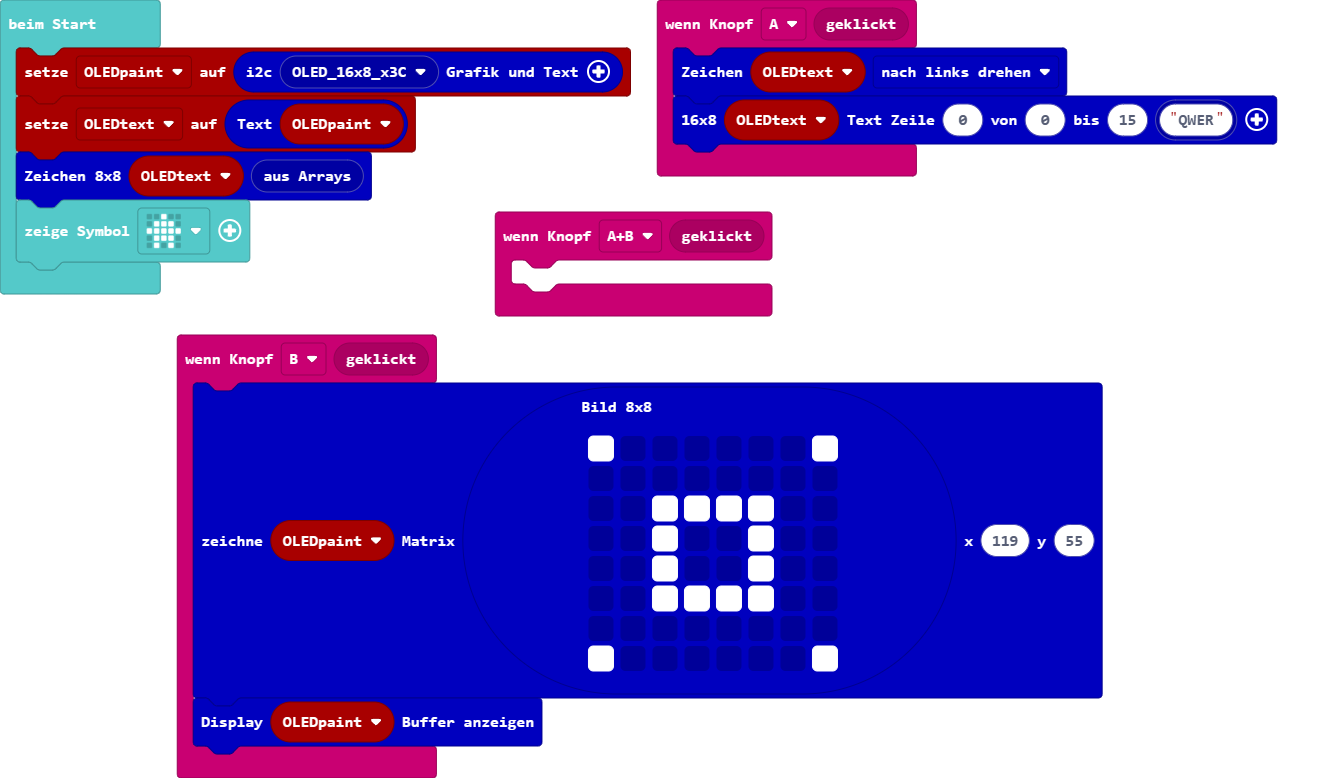
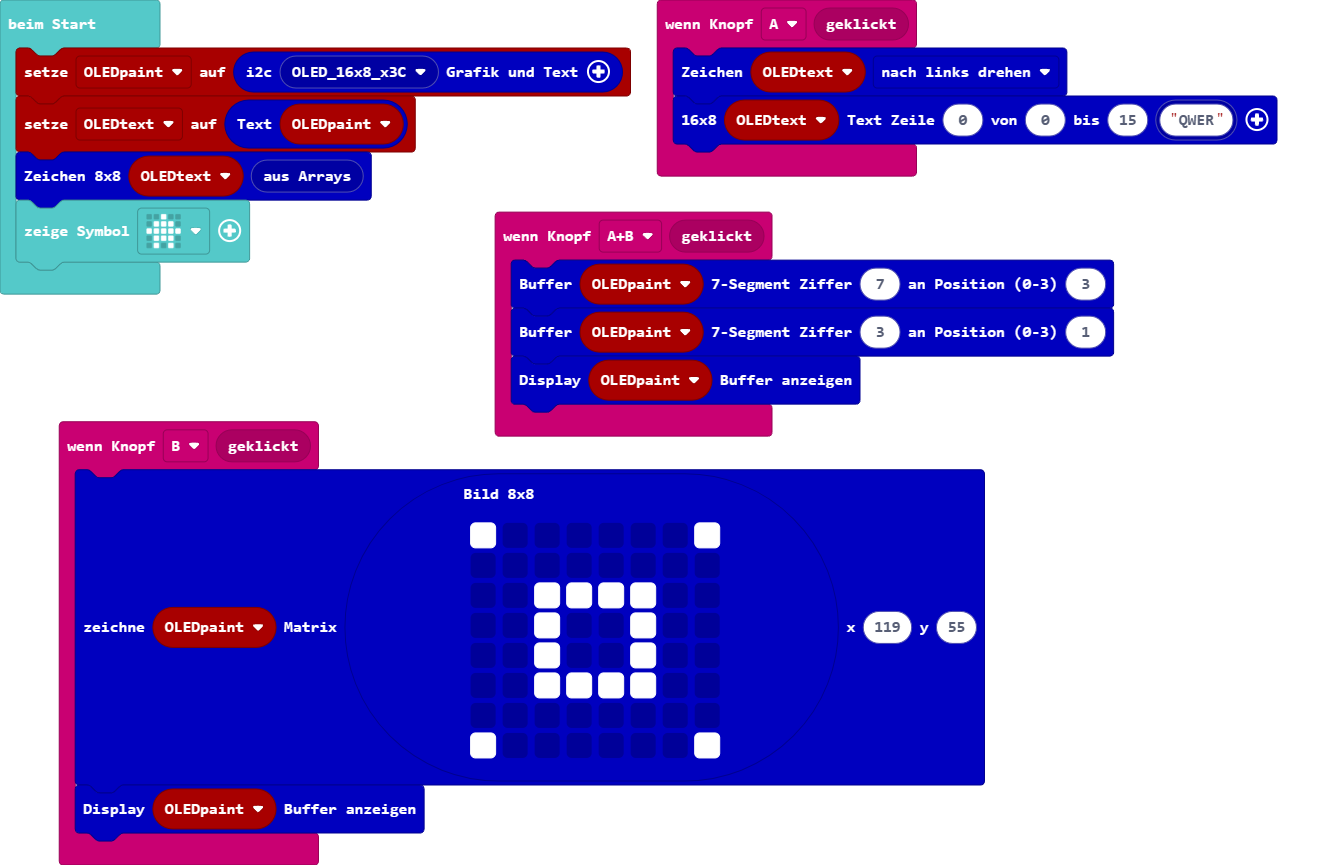
Aktualisiere main.blocks, main.ts, oledpaint.ts, oledfunctions.ts

diff --git a/oledpaint.ts b/oledpaint.ts
@@ -43,7 +43,7 @@ neu programmiert von Lutz Elßner im November 2023
         // ========== group="direkt auf Display zeichnen" subcategory=zeichnen
 
         //% group="direkt auf Display zeichnen" subcategory=zeichnen
-        //% block="Display %OLEDpaint löschen || von Zeile %vonZeile bis Zeile %bisZeile mit Bitmuster %charcode" weight=9
+        //% block="Display %OLEDpaint löschen || von Zeile %vonZeile bis Zeile %bisZeile mit Bitmuster 0↓255 %byte" weight=9
         //% vonZeile.min=0 vonZeile.max=7 vonZeile.defl=0
         //% bisZeile.min=0 bisZeile.max=7 bisZeile.defl=7
         //% byte.min=0 byte.max=255 byte.defl=0
@@ -66,15 +66,15 @@ neu programmiert von Lutz Elßner im November 2023
                     this.drawnum(parseFloat(zahlAlsText.substr(Index, 1)), Index + 4 - zahlAlsText.length)
                 }
             } else { //Errormessage
-                this.drawsegment("A", 0)
-                this.drawsegment("D", 0)
-                this.drawsegment("E", 0)
-                this.drawsegment("F", 0)
-                this.drawsegment("G", 0)
-                this.drawsegment("E", 32)
-                this.drawsegment("G", 32)
-                this.drawsegment("E", 64)
-                this.drawsegment("G", 64)
+                this.drawsegment(eSegment.A, 0)
+                this.drawsegment(eSegment.D, 0)
+                this.drawsegment(eSegment.E, 0)
+                this.drawsegment(eSegment.F, 0)
+                this.drawsegment(eSegment.G, 0)
+                this.drawsegment(eSegment.E, 32)
+                this.drawsegment(eSegment.G, 32)
+                this.drawsegment(eSegment.E, 64)
+                this.drawsegment(eSegment.G, 64)
             }
             this.sendBuffer() // anzeigen
         }
@@ -95,125 +95,147 @@ neu programmiert von Lutz Elßner im November 2023
 
 
 
-        // ========== group="Buffer"
+        // ========== group="in den Buffer zeichnen (dann 'Buffer anzeigen' verwenden)" subcategory=zeichnen
 
 
-
-        //% group="Buffer" subcategory=zeichnen
-        //% block="zeichne %OLEDpaint Ziffer %num an Position %pos" weight=6
-        //% num.min=0 num.max=9999 pos.min=0 pos.max=3
-        drawnum(num: number, pos: number) {
-            switch (pos) {
-                case 0: {
-                    pos = 0
-                    break
-                }
-                case 1: {
-                    pos = 32
-                    break
-                }
-                case 2: {
-                    pos = 64
-                    break
-                }
-                case 3: {
-                    pos = 96
-                    break
-                }
-            }
-            switch (num) {
-                case 0: {
-                    this.drawsegment("A", pos)
-                    this.drawsegment("B", pos)
-                    this.drawsegment("C", pos)
-                    this.drawsegment("D", pos)
-                    this.drawsegment("E", pos)
-                    this.drawsegment("F", pos)
-                    break
-                }
-                case 1: {
-                    this.drawsegment("B", pos)
-                    this.drawsegment("C", pos)
-                    break
-                }
-                case 2: {
-                    this.drawsegment("A", pos)
-                    this.drawsegment("B", pos)
-                    this.drawsegment("G", pos)
-                    this.drawsegment("E", pos)
-                    this.drawsegment("D", pos)
-                    break
-                }
-                case 3: {
-                    this.drawsegment("A", pos)
-                    this.drawsegment("B", pos)
-                    this.drawsegment("C", pos)
-                    this.drawsegment("D", pos)
-                    this.drawsegment("G", pos)
-                    break
-                }
-                case 4: {
-                    this.drawsegment("B", pos)
-                    this.drawsegment("C", pos)
-                    this.drawsegment("F", pos)
-                    this.drawsegment("G", pos)
-                    break
-                }
-                case 5: {
-                    this.drawsegment("A", pos)
-                    this.drawsegment("C", pos)
-                    this.drawsegment("D", pos)
-                    this.drawsegment("F", pos)
-                    this.drawsegment("G", pos)
-                    break
-                }
-                case 6: {
-                    this.drawsegment("A", pos)
-                    this.drawsegment("C", pos)
-                    this.drawsegment("D", pos)
-                    this.drawsegment("E", pos)
-                    this.drawsegment("F", pos)
-                    this.drawsegment("G", pos)
-                    break
-                }
-                case 7: {
-                    this.drawsegment("A", pos)
-                    this.drawsegment("B", pos)
-                    this.drawsegment("C", pos)
-                    break
-                }
-                case 8: {
-                    this.drawsegment("A", pos)
-                    this.drawsegment("B", pos)
-                    this.drawsegment("C", pos)
-                    this.drawsegment("D", pos)
-                    this.drawsegment("E", pos)
-                    this.drawsegment("F", pos)
-                    this.drawsegment("G", pos)
-                    break
-                }
-                case 9: {
-                    this.drawsegment("A", pos)
-                    this.drawsegment("B", pos)
-                    this.drawsegment("C", pos)
-                    this.drawsegment("D", pos)
-                    this.drawsegment("F", pos)
-                    this.drawsegment("G", pos)
-                    break
-                }
-            }
-        }
-
-
-        // ========== group="Buffer"
-
-        //% group="Buffer" subcategory=zeichnen
-        //% block="löschen %OLEDpaint || mit Bitmuster 0↓255 %byte" weight=6
+        //% group="in den Buffer zeichnen (dann 'Buffer anzeigen' verwenden)" subcategory=zeichnen
+        //% block="Buffer %OLEDpaint löschen || von Zeile %vonZeile bis Zeile %bisZeile mit Bitmuster 0↓255 %byte" weight=9
+        //% vonZeile.min=0 vonZeile.max=7 vonZeile.defl=0
+        //% bisZeile.min=0 bisZeile.max=7 bisZeile.defl=7
         //% byte.min=0 byte.max=255 byte.defl=0
-        clearBuffer(byte?: number) {
-            for (let page = 0; page < this.qBuffer.length; page++)
-                this.qBuffer.get(page).fill(byte)// & 0xFF, this.qOffset)
+        clearBuffer(vonZeile?: number, bisZeile?: number, byte?: number) {
+            for (let page = vonZeile; page <= bisZeile; page++)
+                this.qBuffer.get(page).fill(byte & 0xFF, this.qOffset)
         }
+
+
+        //% group="in den Buffer zeichnen (dann 'Buffer anzeigen' verwenden)" subcategory=zeichnen
+        //% block="Buffer %OLEDpaint 7-Segment Ziffer %num an Position (0-3) %pos" weight=8
+        //% num.min=0 num.max=9 pos.min=0 pos.max=3
+        drawnum(num: number, pos: number) {
+            if (between(num, 0, 9) && between(pos, 0, 3)) {
+                pos = pos * 32
+                /* switch (pos) {
+                    case 0: {
+                        pos = 0
+                        break
+                    }
+                    case 1: {
+                        pos = 32
+                        break
+                    }
+                    case 2: {
+                        pos = 64
+                        break
+                    }
+                    case 3: {
+                        pos = 96
+                        break
+                    }
+                } */
+                switch (num) {
+                    case 0: {
+                        this.drawsegment(eSegment.A, pos)
+                        this.drawsegment(eSegment.B, pos)
+                        this.drawsegment(eSegment.C, pos)
+                        this.drawsegment(eSegment.D, pos)
+                        this.drawsegment(eSegment.E, pos)
+                        this.drawsegment(eSegment.F, pos)
+                        break
+                    }
+                    case 1: {
+                        this.drawsegment(eSegment.B, pos)
+                        this.drawsegment(eSegment.C, pos)
+                        break
+                    }
+                    case 2: {
+                        this.drawsegment(eSegment.A, pos)
+                        this.drawsegment(eSegment.B, pos)
+                        this.drawsegment(eSegment.G, pos)
+                        this.drawsegment(eSegment.E, pos)
+                        this.drawsegment(eSegment.D, pos)
+                        break
+                    }
+                    case 3: {
+                        this.drawsegment(eSegment.A, pos)
+                        this.drawsegment(eSegment.B, pos)
+                        this.drawsegment(eSegment.C, pos)
+                        this.drawsegment(eSegment.D, pos)
+                        this.drawsegment(eSegment.G, pos)
+                        break
+                    }
+                    case 4: {
+                        this.drawsegment(eSegment.B, pos)
+                        this.drawsegment(eSegment.C, pos)
+                        this.drawsegment(eSegment.F, pos)
+                        this.drawsegment(eSegment.G, pos)
+                        break
+                    }
+                    case 5: {
+                        this.drawsegment(eSegment.A, pos)
+                        this.drawsegment(eSegment.C, pos)
+                        this.drawsegment(eSegment.D, pos)
+                        this.drawsegment(eSegment.F, pos)
+                        this.drawsegment(eSegment.G, pos)
+                        break
+                    }
+                    case 6: {
+                        this.drawsegment(eSegment.A, pos)
+                        this.drawsegment(eSegment.C, pos)
+                        this.drawsegment(eSegment.D, pos)
+                        this.drawsegment(eSegment.E, pos)
+                        this.drawsegment(eSegment.F, pos)
+                        this.drawsegment(eSegment.G, pos)
+                        break
+                    }
+                    case 7: {
+                        this.drawsegment(eSegment.A, pos)
+                        this.drawsegment(eSegment.B, pos)
+                        this.drawsegment(eSegment.C, pos)
+                        break
+                    }
+                    case 8: {
+                        this.drawsegment(eSegment.A, pos)
+                        this.drawsegment(eSegment.B, pos)
+                        this.drawsegment(eSegment.C, pos)
+                        this.drawsegment(eSegment.D, pos)
+                        this.drawsegment(eSegment.E, pos)
+                        this.drawsegment(eSegment.F, pos)
+                        this.drawsegment(eSegment.G, pos)
+                        break
+                    }
+                    case 9: {
+                        this.drawsegment(eSegment.A, pos)
+                        this.drawsegment(eSegment.B, pos)
+                        this.drawsegment(eSegment.C, pos)
+                        this.drawsegment(eSegment.D, pos)
+                        this.drawsegment(eSegment.F, pos)
+                        this.drawsegment(eSegment.G, pos)
+                        break
+                    }
+                }
+            }
+        }
+
+
+        //% group="in den Buffer zeichnen (dann 'Buffer anzeigen' verwenden)" subcategory=zeichnen
+        //% block="Buffer %OLEDpaint einzelnes Segment %seg an Position %pos" weight=7
+        //% pos.min=0 pos.max=3
+        drawsegment(seg: eSegment, pos: number) {
+            switch (seg) {
+                case eSegment.A: { this.writeImageOLED(quer, pos + 4, 0); break }
+                case eSegment.F: { this.writeImageOLED(hoch, pos, 4); break }
+                case eSegment.E: { this.writeImageOLED(hoch, pos, 29); break }
+                case eSegment.G: { this.writeImageOLED(quer, pos + 4, 25); break }
+                case eSegment.B: { this.writeImageOLED(hoch, pos + 24, 4); break }
+                case eSegment.C: { this.writeImageOLED(hoch, pos + 24, 29); break }
+                case eSegment.D: { this.writeImageOLED(quer, pos + 4, 50); break }
+            }
+        }
+
+
+
+        // ========== group="Buffer"
 
         //% group="Buffer" subcategory=zeichnen
         //% block="zeichnen %OLEDpaint Zeile 0↓7 %page Segment 0→127 %seg Bitmuster 0↓255 %byte" weight=4
@@ -249,43 +271,6 @@ neu programmiert von Lutz Elßner im November 2023
             let seg = this.qOffset + x
             let screenPixel = (bu[seg] | (1 << shift_page))  //set the screen data byte
             bu[seg] = screenPixel                            //store data in screen buffer
-        }
-
-
-
-        //% group="Image" subcategory=zeichnen
-        //% block="zeichne %OLEDpaint Segment %seg an Position %pos" weight=7
-        drawsegment(seg: string, pos: number) {
-            switch (seg) {
-                case "A": {
-                    this.writeImageOLED(quer, pos + 4, 0)
-                    break
-                }
-                case "F": {
-                    this.writeImageOLED(hoch, pos, 4)
-                    break
-                }
-                case "E": {
-                    this.writeImageOLED(hoch, pos, 29)
-                    break
-                }
-                case "G": {
-                    this.writeImageOLED(quer, pos + 4, 25)
-                    break
-                }
-                case "B": {
-                    this.writeImageOLED(hoch, pos + 24, 4)
-                    break
-                }
-                case "C": {
-                    this.writeImageOLED(hoch, pos + 24, 29)
-                    break
-                }
-                case "D": {
-                    this.writeImageOLED(quer, pos + 4, 50)
-                    break
-                }
-            }
         }
 
 

diff --git a/oledfunctions.ts b/oledfunctions.ts
@@ -1,8 +1,7 @@
 
-namespace oled 
+namespace oled
 /*
-*/
-{
+*/ {
 
     // ========== blockId=oled_ === für pADDR.shadow="oled_eADDR_OLED"
 
@@ -71,11 +70,13 @@ namespace oled
         rechts
     }
 
+    export enum eSegment { A, B, C, D, E, F, G } // 7-Segment-Anzeige
+
 
     export function between(i0: number, i1: number, i2: number): boolean { return (i0 >= i1 && i0 <= i2) }
 
 
-    export  function drehen(b0: Buffer, pDrehen: eZeichenDrehen) { // Buffer mit 8 Byte
+    export function drehen(b0: Buffer, pDrehen: eZeichenDrehen) { // Buffer mit 8 Byte
         let b1 = Buffer.create(8)
         b1.fill(0b00000000)
 

diff --git a/main.ts b/main.ts
@@ -3,7 +3,9 @@ input.onButtonEvent(Button.A, input.buttonEventClick(), function () {
     OLEDtext.writeText16x8(0, 0, 15, oled.oled_text("QWER"))
 })
 input.onButtonEvent(Button.AB, input.buttonEventClick(), function () {
-	
+    OLEDpaint.drawnum(7, 3)
+    OLEDpaint.drawnum(3, 1)
+    OLEDpaint.sendBuffer()
 })
 input.onButtonEvent(Button.B, input.buttonEventClick(), function () {
     OLEDpaint.writeImageOLED(oled.matrix8x8(`
